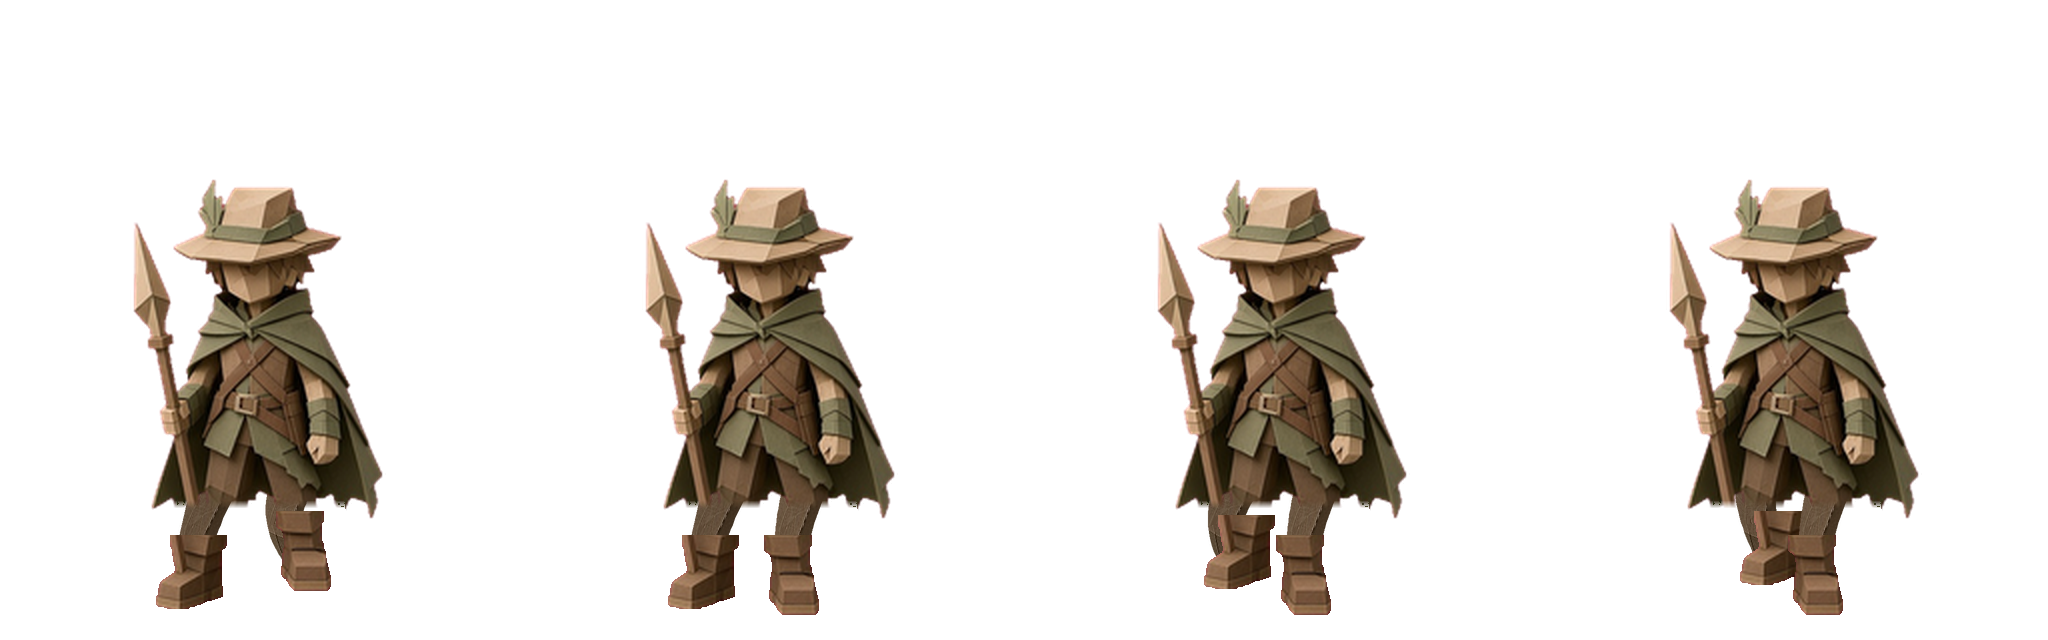
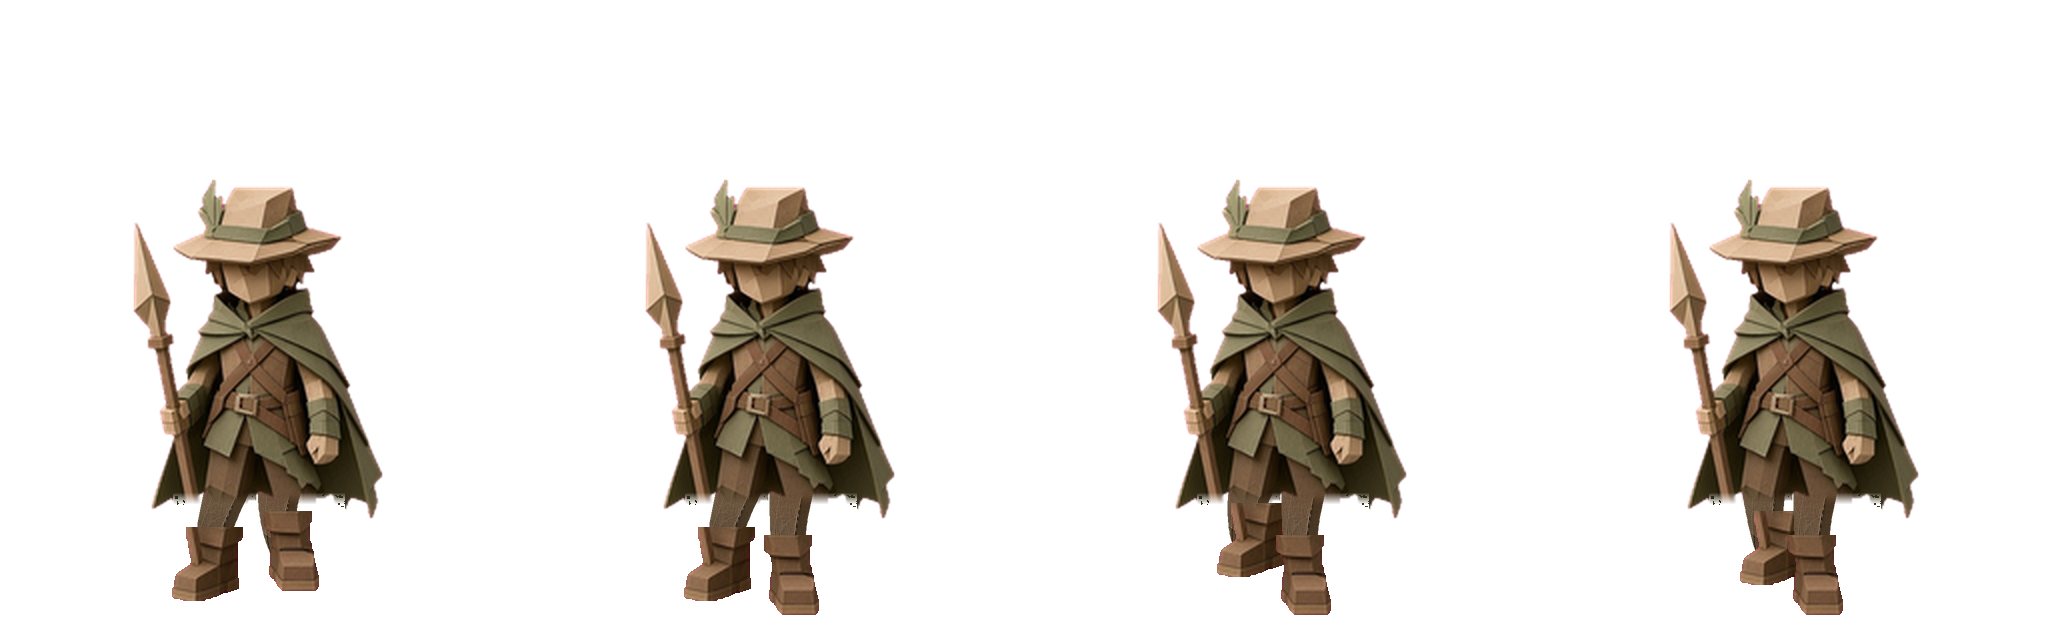
Swap in the V5 four-frame sheets at the old 1.53 cycle.
The V4 strips stay archived. The step distance is still 1.53 world units, so this build is the uncalibrated control, not a claim that 1.024 is in use.

diff --git a/src/walk/play.ts b/src/walk/play.ts
@@ -5,7 +5,7 @@
  */
 import { FLAG_URL, GRASS_URLS, HUNTER_URL, PATH_URLS } from "./art";
 import { GOAL, MAZE_GRID, MAZE_ROWS, START } from "./maze";
-import { createWalker, isWall, stepWalker, type Walker } from "./motion";
+import { WALK_CYCLE_DISTANCE, createWalker, isWall, stepWalker, type Walker } from "./motion";
 import { project, revealRect, shouldCutaway, wallDepth, wallSilhouette, walkerDepth } from "./occlusion";
 import { cardinalFromFacing, type Cardinal } from "./paper-hunter";
 import {
@@ -335,7 +335,7 @@ export class WalkMode {
     const missing = dirs.filter((dir) => !this.sheets[dir]);
     const note = document.getElementById("walk-limit");
     if (note && missing.length === 0) {
-      note.textContent = "v4 四帧，不是终稿。东西没抵消纵向，南北腿交叉，帧内仍滑，换向矛左右不一致。收脚默认关。";
+      note.textContent = `v5 周期${WALK_CYCLE_DISTANCE}，不是终稿。采样对齐不是帧内不滑。腰缝和换向矛未解。收脚默认关。`;
     } else if (note && missing.length) {
       note.textContent = `行走帧缺失：${missing.join(" ")}。缺的方向不用单张冒充迈步。`;
     }
@@ -363,7 +363,7 @@ export class WalkMode {
       view.kind === "walk" ? "走" : view.kind === "settle" ? `收${view.cell}` : this.walker.won ? "到旗立" : blocked ? "受阻立" : "立";
     const gate = this.settleWanted ? "收开" : "收关";
     const phase = this.walker.phase.toFixed(2);
-    el.textContent = `${this.buildLabel()} · 输入 ${held.join("") || "无"} · 朝${cardinal} · 相位${phase} · ${gate} · ${pose}`;
+    el.textContent = `${this.buildLabel()} c${WALK_CYCLE_DISTANCE} · 输入 ${held.join("") || "无"} · 朝${cardinal} · 相位${phase} · ${gate} · ${pose}`;
   }
 
   private poseNow(): { kind: "walk" | "settle" | "idle"; cell: number } {

diff --git a/src/walk/motion.ts b/src/walk/motion.ts
@@ -1,9 +1,9 @@
 import { GOAL, GOAL_RADIUS, MAZE_GRID, PLAYER_RADIUS, START, type Grid } from "./maze";
 
 export const MOVE_SPEED = 2.55;
-/** One four-frame cycle at nominal speed. About 0.6s, 6.67 fps. */
-export const WALK_CYCLE_SEC = 0.6;
-export const WALK_PHASE_PER_UNIT = (Math.PI * 2) / (MOVE_SPEED * WALK_CYCLE_SEC);
+/** World distance for one four-frame cycle. 1.53 is the previous cycle, not a V5 calibration. */
+export const WALK_CYCLE_DISTANCE = 1.53;
+export const WALK_PHASE_PER_UNIT = (Math.PI * 2) / WALK_CYCLE_DISTANCE;
 
 export interface Walker {
   x: number;

diff --git a/src/walk/walk-sheets.ts b/src/walk/walk-sheets.ts
@@ -16,8 +16,8 @@ export const WALK_FRAMES = 4;
 /** Feet contact inside each frame. */
 export const WALK_ANCHOR_X = 256;
 export const WALK_ANCHOR_Y = 600;
-/** V4 four-frame sheets. The pivot and the 1.53-unit cycle stay as they were. */
-export const WALK_BATCH = "v4";
+/** V5 four-frame sheets. Pivot unchanged. Cycle distance is owned by motion.ts. */
+export const WALK_BATCH = "v5";
 export const WALK_SHEET_W = WALK_FRAME_W * WALK_FRAMES;
 export const WALK_SHEET_H = WALK_FRAME_H;
 
